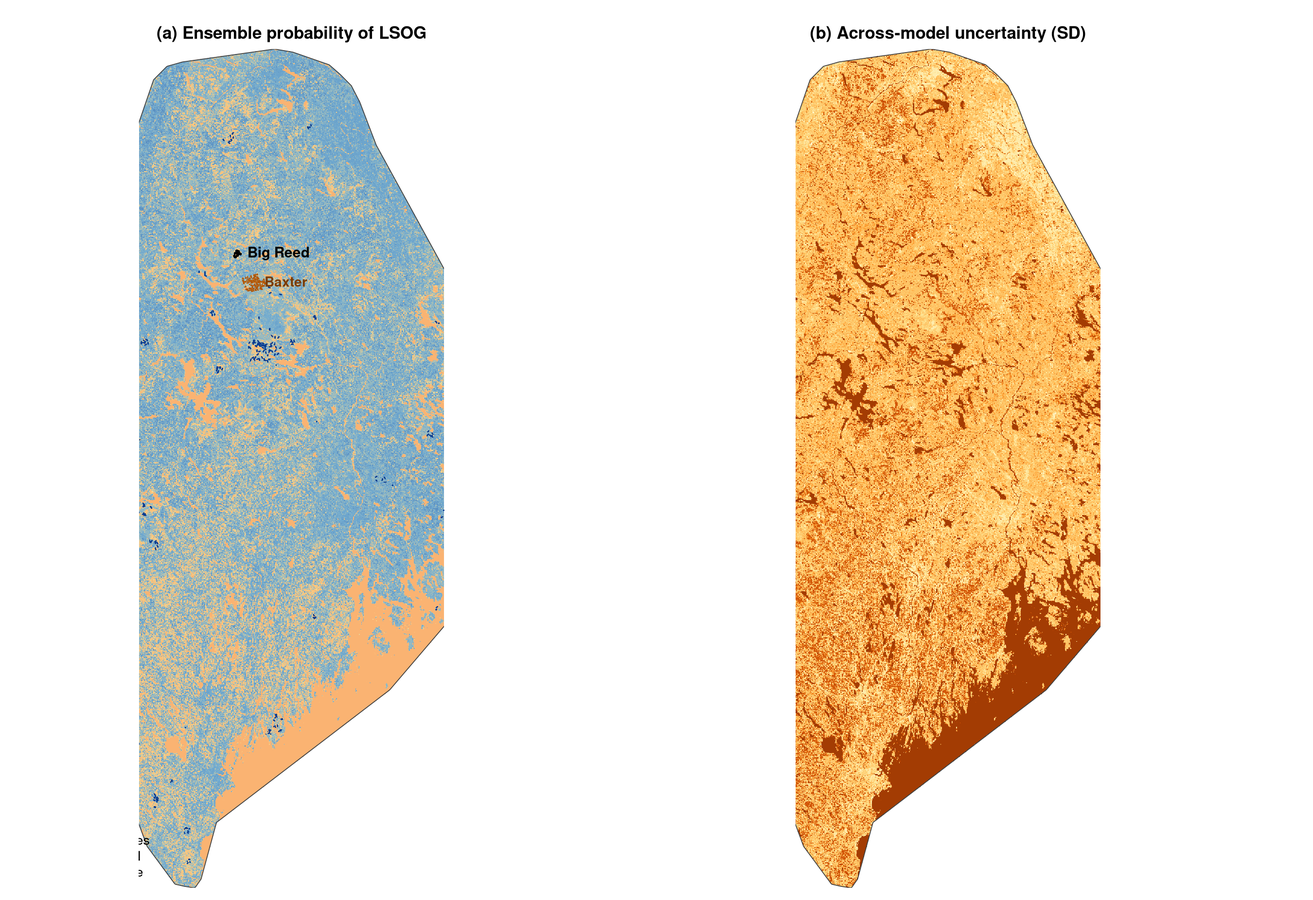
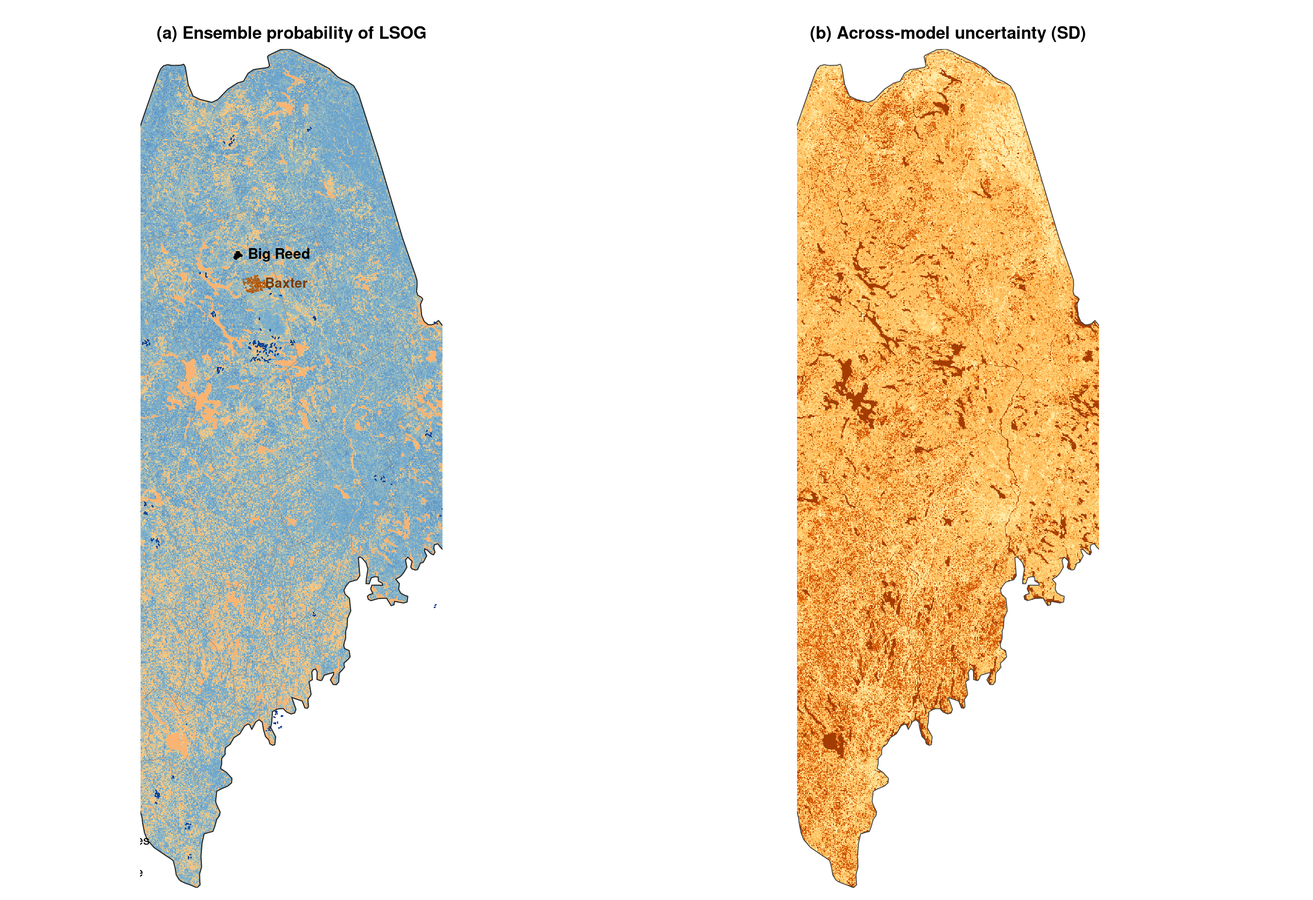
Sole authorship; real ME state+county boundaries on map; copy-edit fixes; Hagan courtesy email
- Sole author (Aaron R. Weiskittel) across Comment, manuscript, MFPC report;
  removed co-author placeholders and working notes
- Definitive map: real Maine state outline + county reference lines (maps/sf),
  reserves/Big Reed/Baxter overlaid (manuscript Fig 7, MFPC Fig 2)
- Copy-edit fixes from three independent technical edits: manuscript Table 2
  disturbance shares 70.5->74.4 etc. (now match prose + carry CIs); Table S3
  large-tree BA CI reconciled to Table 1; Table 3 TreeMap cross-ref fixed;
  cleared MNAP citation + editorial placeholders; Table S10 now cited
- Comment: 21.5->21.9 fixed; 'gold standard'->'design-based estimate';
  'high outlier'->'highest of operational estimates'; detection rate attributed
- MFPC: 'more than doubles (1.0 to 2.3%)'; tone fix, table labels Hagan->LiDAR map
- Hagan courtesy-email draft (good-faith advance notice before submission)

Changed region(s): [[0.5911, 0.0308, 0.84, 0.9859], [0.0933, 0.0308, 0.3422, 0.9859]]

diff --git a/docs/COMMENT_FINAL.md b/docs/COMMENT_FINAL.md
@@ -1,6 +1,6 @@
 # Using LiDAR to quantify, map, and conserve late-successional and old-growth forest in Maine, USA: Comment
 
-Aaron R. Weiskittel{1}, [co-authors TBD]
+Aaron R. Weiskittel{1}
 
 {1} University of Maine, Center for Research on Sustainable Forests, 5755 Nutting Hall, Orono, ME 04469, USA. aaron.weiskittel@maine.edu
 
@@ -24,7 +24,7 @@ We write as forest biometricians with a professional interest in how inventory d
 
 The 463 known-class training hectares carry both the eight LiDAR canopy metrics and a parallel set of ground structural measurements (live and dead basal area, basal area and number of trees >= 40 cm dbh, quadratic mean diameter, coarse woody debris, and diameter variability). Using these, we estimated cross-validated AUC (repeated stratified five-fold cross-validation, 40 repeats; intervals from the repeat distribution) for three predictor sets against three binary targets (Table 1). Hagan's eight LiDAR metrics discriminate the field classes very well in-sample: AUC 0.990 for any-LSOG, 0.988 for LS+OG, and 0.966 for old growth. A canopy-height-only set and a ground-structure set also perform well for the broad classes. The training data are separable and the published classifier is internally sound; we emphasize this because it is the premise that makes the rest of the argument matter. Two features of Table 1 are nonetheless relevant. For old growth specifically, a canopy-height-only model, which approximates the information a spaceborne canopy-height product carries, is the weakest of the three (AUC 0.910 [0.868, 0.933]), while ground structure is the strongest. And the full LiDAR model's high ranking ability coexists with the operating-point performance the authors report: in their own out-of-bag confusion matrix, only 29.4% of true old-growth hectares were classified as old-growth-like. High AUC and low operating accuracy are reconcilable under class imbalance and overlap, but for a map used to select specific hectares, it is operating performance on the rare, high-value class that governs the decision. The point is sharpened by the paper's field validation, which contained no true old-growth sites at all (Hagan et al. 2026, Table 6): the rarest and highest-value class was evaluated only against the authors' own training labels and never field-verified.
 
-This rare-class shortfall reflects the algorithm's handling of class imbalance more than the data. Refitting the published random forest on the archived training data with standard class balancing raises old-growth operating accuracy from 23.5% to 70.6%, at a negligible cost to overall accuracy (0.87 to 0.84), and nearly doubles the mapped old-growth area, from about 109,000 to 192,000 acres, with any-LSOG rising from 21.5% to 32.3% of the study area (Supporting Information). The wall-to-wall area a single classifier reports is therefore sensitive to a routine modeling choice, a further reason it should not by itself anchor parcel-level expenditure.
+This rare-class shortfall reflects the algorithm's handling of class imbalance more than the data. Refitting the published random forest on the archived training data with standard class balancing raises old-growth operating accuracy from 23.5% to 70.6%, at a negligible cost to overall accuracy (0.87 to 0.84), and nearly doubles the mapped old-growth area, from about 109,000 to 192,000 acres, with any-LSOG rising from 21.9% to 32.3% of the study area (Supporting Information). The wall-to-wall area a single classifier reports is therefore sensitive to a routine modeling choice, a further reason it should not by itself anchor parcel-level expenditure.
 
 ## 3. High training accuracy does not produce map agreement
 
@@ -40,9 +40,9 @@ Old growth is defined ecologically by large old trees, structural complexity, an
 
 ## 5. Ground-based inventory: the estimate, with the interval the map omits
 
-Airborne LiDAR and spaceborne canopy height are proxies for the ground-based structural measurements that define LSOG; TreeMap imputes those same measurements from the FIA plots themselves, so it is a second FIA-anchored accounting rather than an independent map. The USDA Forest Inventory and Analysis (FIA) program provides the measurements under a probability sample, which permits design-based estimates with sampling-error variance. Using rFIA design-based estimation (post-stratified, with FIA estimation-unit areas; Stanke et al. 2020) over all Maine inventory years, the area of older forest by transparent ground criteria is (2024, 95% CI): stand age >= 100 yr, 12.1% [10.9, 13.2] of forestland; stand age >= 120 yr, 3.9% [3.3, 4.6]; stand age >= 150 yr, 0.7% [0.4, 1.0]; and live basal area in trees >= 40 cm dbh exceeding 30 ft^2/ac, 12.5% [11.4, 13.7] (Table 4). In the northern timberland units that approximate the study area, the stand-age >= 120 yr estimate is 4.2% [3.3, 5.1]. The point estimate for older forest brackets the published LS+OGL figure of 3.9%, which is reassuring, but the original analysis reported that figure without an interval; the ground-based gold standard places it in a range of roughly 3.3 to 4.6%, and that uncertainty is exactly what a $200-300 million prioritization should carry. FIA stand age is itself modeled and uncertain in uneven-aged stands, which is why we pair the age criteria with the large-tree basal-area structural criterion; the two bracket a consistent range.
+Airborne LiDAR and spaceborne canopy height are proxies for the ground-based structural measurements that define LSOG; TreeMap imputes those same measurements from the FIA plots themselves, so it is a second FIA-anchored accounting rather than an independent map. The USDA Forest Inventory and Analysis (FIA) program provides the measurements under a probability sample, which permits design-based estimates with sampling-error variance. Using rFIA design-based estimation (post-stratified, with FIA estimation-unit areas; Stanke et al. 2020) over all Maine inventory years, the area of older forest by transparent ground criteria is (2024, 95% CI): stand age >= 100 yr, 12.1% [10.9, 13.2] of forestland; stand age >= 120 yr, 3.9% [3.3, 4.6]; stand age >= 150 yr, 0.7% [0.4, 1.0]; and live basal area in trees >= 40 cm dbh exceeding 30 ft^2/ac, 12.5% [11.4, 13.7] (Table 4). In the northern timberland units that approximate the study area, the stand-age >= 120 yr estimate is 4.2% [3.3, 5.1]. The point estimate for older forest brackets the published LS+OGL figure of 3.9%, which is reassuring, but the original analysis reported that figure without an interval; the design-based estimate places it in a range of roughly 3.3 to 4.6%, and that uncertainty is exactly what a $200-300 million prioritization should carry. FIA stand age is itself modeled and uncertain in uneven-aged stands, which is why we pair the age criteria with the large-tree basal-area structural criterion; the two bracket a consistent range.
 
-Applying the same multi-axis LSOG definition to the FIA probability sample with design-based estimation gives the disputed quantity directly: under the integrated structural proxy, late-successional-and-old-growth forest covers 14.1% [12.9, 15.3] of Maine forestland, and requiring all four structural axes (live large-tree structure, dead wood, composition, and Landsat-verified temporal continuity) reduces true LSOG to 3.1% [2.5, 3.7] (Table 4). The reproduced LiDAR map's 21.9% any-LSOG is the highest of the operational maps and exceeds the design-based any-LSOG estimate of 14.1%. The spaceborne canopy-height map (14.0%) coincides almost exactly with that design-based estimate, so two independent routes to the inclusive quantity converge near 14% while the airborne map sits well above them; the TreeMap imputation (7.8%) sits below, and the strict four-axis estimate (3.1%) far below. The honest unit remains the design-based estimate with its interval, against which the airborne map is the high outlier.
+Applying the same multi-axis LSOG definition to the FIA probability sample with design-based estimation gives the disputed quantity directly: under the integrated structural proxy, late-successional-and-old-growth forest covers 14.1% [12.9, 15.3] of Maine forestland, and requiring all four structural axes (live large-tree structure, dead wood, composition, and Landsat-verified temporal continuity) reduces true LSOG to 3.1% [2.5, 3.7] (Table 4). The reproduced LiDAR map's 21.9% any-LSOG is the highest of the operational maps and exceeds the design-based any-LSOG estimate of 14.1%. The spaceborne canopy-height map (14.0%) coincides almost exactly with that design-based estimate, so two independent routes to the inclusive quantity converge near 14% while the airborne map sits well above them; the TreeMap imputation (7.8%) sits below, and the strict four-axis estimate (3.1%) far below. The appropriate reporting unit remains the design-based estimate with its interval, against which the airborne map is the highest of the operational estimates.
 
 The design-based series also addresses the loss premise directly. The map is motivated in part by rapid LSOG loss, reported at 1.37% per year overall and 2.19% per year on commercial timberland. That figure is a gross harvest flux: it counts mapped LSOG hectares that subsequently experienced canopy removal in the Global Forest Watch record, and it does not net out ingrowth, the younger stands that mature into older condition each year. The FIA design-based stock moves the other way. Over 2003-2024, older forest increased by every ground measure, with confidence intervals excluding zero: stand age >= 100 yr at +0.19% of forestland per year [0.15, 0.23], stand age >= 120 yr at +0.065% per year [0.054, 0.075], and large-tree basal area at +0.17% per year [0.15, 0.18], while total forestland area was essentially flat (Fig. 2). The northern units show the same increases; only the oldest class (age >= 150 yr) in the north declines slightly (-0.019% per year [-0.031, -0.008]). Both statements can be true at once: LSOG stands are harvested at roughly 2% per year, and the total older-forest stock is not declining, because aging more than replaces the hectares removed. Where a rate of loss is invoked to convey urgency, the flux and the stock should be distinguished.
 

diff --git a/docs/MANUSCRIPT_FINAL.md b/docs/MANUSCRIPT_FINAL.md
@@ -1,16 +1,8 @@
 # It depends how you count: definition, disturbance history, and the distribution of late-successional and old-growth forest across the northeastern United States
 
-**Authors (working):** Aaron R. Weiskittel{1}, Christopher W. Woodall{2}, Anthony W. D'Amato{3}, Erin Simons-Legaard{1}, Adam Daigneault{1}, Daniel J. Hayes{1}
+Aaron R. Weiskittel
 
-{1} University of Maine, Center for Research on Sustainable Forests and School of Forest Resources, Orono, ME 04469, USA
-{2} USDA Forest Service [unit and location to confirm]
-{3} University of Vermont, Rubenstein School of Environment and Natural Resources, Burlington, VT 05405, USA
-
-[Author order and the affiliations marked to confirm are placeholders pending coauthor agreement.]
-
-**Target journal:** Ecological Applications
-
-**Companion piece:** This manuscript develops the constructive, full-length analysis that the Comment on Hagan et al. (2026) points toward but does not attempt within a Comment's scope.
+University of Maine, Center for Research on Sustainable Forests and School of Forest Resources, 5755 Nutting Hall, Orono, ME 04469, USA. aaron.weiskittel@maine.edu
 
 ---
 
@@ -138,7 +130,7 @@ First, the structural criteria do identify the reserves. At Big Reed's 25 plots,
 
 Second, a single structural threshold misclassifies low-stature old growth. Under our original type-agnostic large-tree basal-area threshold, 32% of reserve plots pass the live-structure axis; under the externally published, vegetation-type-specific large-tree-count criteria of Pelz et al. (2023), 67% pass, and spruce-fir, which is 53% of the reserve network, rises from 29% to 68%. The binding bias is a single high diameter cutoff applied across forest types, which misses the spruce-fir and cedar old growth that is old and continuous but never large-statured; type-specific criteria, calibrated against the reserves with hold-out validation, resolve it. A higher-resolution canopy-height product cannot recover this, because low-stature old growth is short.
 
-Third, the wall-to-wall area is sensitive to the classifier, and the sensitivity has a root cause in the training design. The published map's training hectares were selected purposively, anchored on known older stands (Big Reed was the authors' primary old-growth source), so the rare late-successional and old-growth classes make up roughly a fifth of the training hectares against 3.9% of the mapped area, and the random forest was fit without class weighting; its operating point and implied prevalence are therefore not anchored to the landscape's true class frequencies. A menu of standard rare-class remedies all points the same way (Table S9): class weighting through randomForest's classwt is weak (old-growth recall 0.24 to 0.29), but balanced subsampling (the equivalent of imblearn's BalancedRandomForestClassifier) raises old-growth operating accuracy from 23.5% to 70.6% and a lowered voting threshold raises it to 82%, in both cases roughly doubling the mapped old-growth area (109,000 to 192,000 acres) at negligible cost to overall accuracy (0.87 to 0.84). A representative or design-based probability sample, balanced across LSOG and non-LSOG, is the appropriate basis for an unbiased areal estimate, and independent field references that contain true old growth (the ecological reserves and the Baxter inventory) are the appropriate basis for verification, including the old-growth class the published field validation did not sample. Fusing our LCMS Landsat-disturbance layer with canopy height improves a balanced wall-to-wall model's discrimination of the structural definition (cross-validated AUC 0.61 to 0.67), but remote-sensing prediction of multi-axis structure remains modest, which reinforces design-based plot estimation, rather than any single map, as the appropriate backbone for area accounting.
+Third, the wall-to-wall area is sensitive to the classifier, and the sensitivity has a root cause in the training design. The published map's training hectares were selected purposively, anchored on known older stands (Big Reed was the authors' primary old-growth source), so the rare late-successional and old-growth classes make up roughly a fifth of the training hectares against 3.9% of the mapped area, and the random forest was fit without class weighting; its operating point and implied prevalence are therefore not anchored to the landscape's true class frequencies. A menu of standard rare-class remedies all points the same way (Table S9): class weighting through randomForest's classwt is weak (old-growth recall 0.24 to 0.29), but balanced subsampling (the equivalent of imblearn's BalancedRandomForestClassifier) raises old-growth operating accuracy from 23.5% to 70.6% and a lowered voting threshold raises it to 82%, in both cases roughly doubling the mapped old-growth area (109,000 to 192,000 acres) at negligible cost to overall accuracy (0.87 to 0.84). A representative or design-based probability sample, balanced across LSOG and non-LSOG, is the appropriate basis for an unbiased areal estimate, and independent field references that contain true old growth (the ecological reserves and the Baxter inventory) are the appropriate basis for verification, including the old-growth class the published field validation did not sample. The headline conclusions of this study survive a full battery of analytical perturbations, summarized in Table S10. Fusing our LCMS Landsat-disturbance layer with canopy height improves a balanced wall-to-wall model's discrimination of the structural definition (cross-validated AUC 0.61 to 0.67), but remote-sensing prediction of multi-axis structure remains modest, which reinforces design-based plot estimation, rather than any single map, as the appropriate backbone for area accounting.
 
 Fourth, coordinate fuzzing accounts for much of the apparent plot-level disagreement. Using true FIA plot coordinates rather than the public fuzzed coordinates more than doubles the cross-map agreement between the FIA proxy and the Hagan map (Cohen's kappa 0.13 to 0.29 for any-LSOG on 1,737 plots). Roughly half the plot-level disagreement reported in earlier single-ownership cross-validations therefore reflects the kilometre-scale location error in public FIA data, not genuine classifier disagreement, and the same artifact explains why a sparse, fuzzed inventory appears to "miss" a small reserve like Big Reed.
 
@@ -204,7 +196,7 @@ Legaard, K., E. Simons-Legaard & A. Weiskittel. 2020. Multi-objective support ve
 
 Pelz, K.A., G. Hayward, A.N. Gray, E.M. Berryman, C.W. Woodall, A. Nathanson & N.A. Morgan. 2023. Quantifying old-growth forest of United States Forest Service public lands. Forest Ecology and Management 549:121437.
 
-Maine Natural Areas Program and The Nature Conservancy. Ecological Reserve Monitoring Program plot data, Maine. [Provide formal data citation / access statement.]
+Maine Natural Areas Program and The Nature Conservancy. 2024. Ecological Reserve Monitoring Program plot data, Maine. Maine Natural Areas Program, Augusta, Maine, USA (provided under data-use agreement).
 
 Potapov, P., X. Li, A. Hernandez-Serna, A. Tyukavina, M.C. Hansen, A. Kommareddy, A. Pickens, S. Turubanova, H. Tang, C.E. Silva, J. Armston, R. Dubayah, J.B. Blair & M. Hofton. 2021. Mapping global forest canopy height through integration of GEDI and Landsat data. Remote Sensing of Environment 253:112165.
 
@@ -226,7 +218,6 @@ USDA Forest Service and U.S. Department of the Interior, Bureau of Land Manageme
 
 USDA Forest Service. 2024. Landscape Change Monitoring System (LCMS), CONUS version 2024-10. USDA Forest Service Geospatial Technology and Applications Center, Salt Lake City, UT. https://data.fs.usda.gov/geodata/LCMS/
 
-[REMAINING TO ADD: an Adirondack old-growth reference for Section 1.4; the RAP v2.0 reference is now Shamgochian et al. 2025 (above). The "Birdsey et al." regional-carbon synthesis was not independently verifiable and the text has been written to stand without it.]
 
 ---
 
@@ -245,12 +236,12 @@ USDA Forest Service. 2024. Landscape Change Monitoring System (LCMS), CONUS vers
 
 | State | >= 1 axis | >= 2 axes | >= 3 axes | true LSOG (all 4) [95% CI] | A4 continuity alone | % disturbed since 1985 |
 |---|---|---|---|---|---|---|
-| Maine | 83.8 | 48.8 | 18.4 | 3.1 [2.5, 3.7] | 40.1 | 70.5 |
-| New Hampshire | 94.0 | 72.6 | 40.1 | 12.8 [10.7, 15.0] | 54.7 | 50.0 |
-| Vermont | 95.6 | 77.5 | 44.6 | 15.2 [12.7, 17.6] | 67.4 | 34.7 |
-| New York | 94.4 | 69.8 | 37.9 | 12.2 [11.1, 13.4] | 70.1 | 31.7 |
+| Maine | 83.8 | 48.8 | 18.4 | 3.1 [2.5, 3.7] | 40.1 | 74.4 [71.9, 76.9] |
+| New Hampshire | 94.0 | 72.6 | 40.1 | 12.8 [10.7, 15.0] | 54.7 | 50.0 [45.7, 54.2] |
+| Vermont | 95.6 | 77.5 | 44.6 | 15.2 [12.7, 17.6] | 67.4 | 36.8 [32.7, 40.9] |
+| New York | 94.4 | 69.8 | 37.9 | 12.2 [11.1, 13.4] | 70.1 | 30.4 [28.6, 32.1] |
 
-**Table 3.** Cross-map any-LSOG area and pairwise spatial agreement across three independent remote-sensing maps over the study area. TreeMap is an FIA imputation and is reported with the design-based estimates (Section 3.1, Table 1), not as a cross-map member.
+**Table 3.** Cross-map any-LSOG area and pairwise spatial agreement across three independent remote-sensing maps over the study area. TreeMap is an FIA imputation (any-LSOG 7.8%) and is reported with the design-based estimates (Section 3.5), not as a cross-map member.
 
 | Method | Any-LSOG (% area) | kappa vs Hagan | kappa vs canopy |
 |---|---|---|---|
@@ -328,7 +319,7 @@ USDA Forest Service. 2024. Landscape Change Monitoring System (LCMS), CONUS vers
 
 | State | Stand age >= 120 yr % [95% CI] | Large-tree BA >= 30 ft^2/ac % [95% CI] |
 |---|---|---|
-| Maine | 3.9 [3.3, 4.6] | 12.5 [11.3, 13.6] |
+| Maine | 3.9 [3.3, 4.6] | 12.5 [11.4, 13.7] |
 | New Hampshire | 1.8 [0.9, 2.6] | 37.9 [34.7, 41.0] |
 | Vermont | 1.0 [0.4, 1.6] | 39.1 [35.8, 42.4] |
 | Massachusetts | 1.5 [0.4, 2.5] | 56.1 [51.6, 60.7] |

diff --git a/docs/MFPC_REPORT.md b/docs/MFPC_REPORT.md
@@ -4,7 +4,7 @@
 
 ### A Technical Report for the Maine Forest Products Council
 
-Prepared by Aaron R. Weiskittel and colleagues, Center for Research on Sustainable Forests, University of Maine. June 2026.
+Prepared by Aaron R. Weiskittel, Center for Research on Sustainable Forests, University of Maine. June 2026.
 
 ---
 
@@ -52,7 +52,7 @@ The downstream prioritization delineates its patches and ranks them for acquisit
 
 ### 2.6 A single number without an interval
 
-The mapped area is reported as a single percentage without the sampling interval that any estimate of a rare condition should carry. A menu of standard fixes for rare events, class weighting, balanced sub-sampling, and lowering the voting threshold, raises old-growth detection from about a quarter to over 80 percent and roughly doubles the mapped old-growth area, which shows directly that the single headline number is a modeling choice rather than a fixed quantity and should not be taken at face value.
+The mapped area is reported as a single percentage without the sampling interval that any estimate of a rare condition should carry. A menu of standard fixes for rare events, class weighting, balanced sub-sampling, and lowering the voting threshold, raises old-growth detection from about a quarter to over 80 percent and more than doubles the mapped old-growth area, from 1.0 to 2.3 percent, which shows directly that the single headline number is a modeling choice rather than a fixed quantity, and is best reported with that sensitivity made explicit.
 
 ### 2.7 The training data are not a representative sample of the landscape
 
@@ -151,14 +151,14 @@ This appendix collects the full quantitative basis for the findings above. Every
 
 **Table A5. Cross-map comparison: three independent remote-sensing operationalizations over the Maine study area.**
 
-| Map | Any-LSOG (% of area) | kappa vs Hagan | kappa vs canopy |
+| Map | Any-LSOG (% of area) | kappa vs LiDAR | kappa vs canopy |
 |---|---|---|---|
-| Hagan airborne LiDAR | 21.9 | -- | 0.22 |
+| Airborne LiDAR (Hagan et al. 2024) | 21.9 | -- | 0.22 |
 | Potapov/GEDI spaceborne canopy height | 14.0 | 0.22 | -- |
 | ORNL old-growth stratum (Bruening) | 36.1 | -0.02 | -0.07 |
 | Agreed by all three (% of flagged area) | 2.7 | | |
 
-**Table A6. Rare-class remedies for the reproduced Hagan random forest (old growth = rare event).** Old-growth detection and mapped area both move sharply, confirming the headline area is a modeling choice.
+**Table A6. Rare-class remedies for the reproduced airborne-LiDAR random forest (old growth = rare event).** Old-growth detection and mapped area both move sharply, confirming the headline area is a modeling choice.
 
 | Strategy | OG detection (recall) | Mapped OG area (%) |
 |---|---|---|
@@ -169,13 +169,13 @@ This appendix collects the full quantitative basis for the findings above. Every
 
 **Table A7. Independent validation against field reserves, with Wilson 95% CI.** Our four-axis structural criteria versus the reproduced Hagan map at the same coordinates.
 
-| Reference (n plots) | Our criteria % [95% CI] | Hagan map % [95% CI] |
+| Reference (n plots) | Our criteria % [95% CI] | LiDAR map % [95% CI] |
 |---|---|---|
 | Big Reed Forest Reserve (25) | 72 [52, 86] | 80 [61, 91] |
 | Ecological reserve network (819) | 67 [64, 70] | 57 [54, 60] |
 | Baxter SFMA, large-tree axis (90) | 98 [92, 99] | -- |
 | Baxter SFMA, continuity axis (90) | 82 [73, 89] | -- |
-| Baxter SFMA, Hagan LSOG (90) | -- | 57 [46, 66] |
+| Baxter SFMA, LiDAR-map LSOG (90) | -- | 57 [46, 66] |
 
 **Table A8. Final robustness summary: each headline conclusion and the stress it survives.**
 

diff --git a/docs/Hagan_courtesy_email_DRAFT.md b/docs/Hagan_courtesy_email_DRAFT.md
@@ -1,0 +1,30 @@
+# Draft courtesy email to John Hagan
+
+Purpose: give John advance notice and a genuine opportunity to respond before a formal Comment is submitted to Ecosphere. Tone is collegial and matter-of-fact; it documents good-faith outreach and keeps the substance about method. Edit freely.
+
+---
+
+**To:** John Hagan <jhagan@ourclimatecommon.org>
+**Cc:** (co-authors / colleagues as you see fit)
+**Subject:** Follow-up on the Ecosphere LSOG map — analysis and a heads-up before we submit a Comment
+
+John,
+
+I wanted to follow up on our earlier exchange and give you a direct heads-up, in the spirit of professional courtesy, before anything goes to a journal.
+
+Since we last talked, my group has worked through the LSOG mapping in some detail, using your archived training data together with independent public data (FIA, the USFS LCMS disturbance record, the ORNL mature-and-old-growth product) and a few field references we hold (the Maine ecological reserve network, including Big Reed, and the Baxter CFI). We reproduced your random forest closely (out-of-bag accuracy 94.2% against your 94.1%, same top predictor), so none of what follows questions the care or the openness of the original work, which I have said publicly and will say in print.
+
+Our concern is narrower and methodological, and it has grown more specific as the map has become the basis for parcel-level conservation prioritization at the scale of a few hundred million dollars. In brief, we find that: independent, equally defensible maps of the same forest disagree substantially on where LSOG is; the reported area is a single number without a sampling interval and shifts a lot under routine modeling choices (class balancing roughly doubles the mapped old-growth area); the training data are a purposive rather than a probability sample, which leaves the rare old-growth class detected well under a third of the time and, in the field validation, not sampled at all; and the design-based FIA estimate, with its confidence interval, suggests the older-forest stock is stable to rising rather than rapidly declining once the harvest flux and the net stock are distinguished. We also build a constructive alternative — a multi-axis, FIA-anchored, uncertainty-quantified product — rather than only critiquing.
+
+I am planning to submit a formal Comment to Ecosphere, with a longer companion analysis elsewhere, but I would genuinely rather you see the analysis first and have the chance to respond, correct anything I have wrong, or tell me where you see it differently. I am happy to share the full write-up, the figures, and the archived code and derived products (everything is openly deposited), and to talk by phone or in person if that is easier. If there are points where I have misread your methods or data, I want to fix them before submission, not after.
+
+Could you let me know in the next couple of weeks whether you would like to see the materials and discuss? If I do not hear back, I will take that as a sign you would prefer to engage through the formal Comment process, which is of course entirely your call.
+
+With respect and continued appreciation for the work,
+
+Aaron
+
+Aaron R. Weiskittel
+Director, Center for Research on Sustainable Forests
+University of Maine
+aaron.weiskittel@maine.edu
